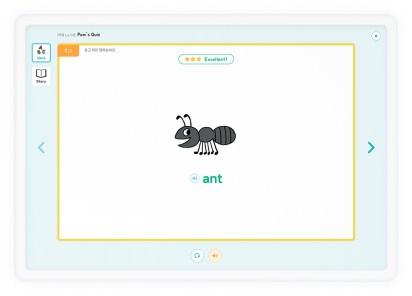
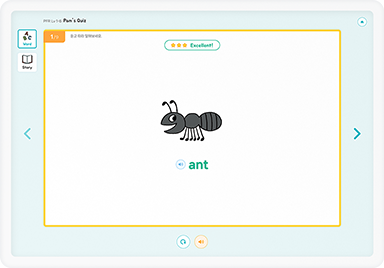
[Update] 프로그램 소개 페이지 미리보기 수정.

diff --git a/src/Screens/IntroductionScreen/IntroductionPreviews/StoryPreview.js b/src/Screens/IntroductionScreen/IntroductionPreviews/StoryPreview.js
@@ -11,7 +11,7 @@ const StoryPreview = () => {
       <img
         src={`/assets/images/story_preview.png`}
         alt={`Story Preview`}
-        className={`drop-shadow-2xl`}
+        className={`drop-shadow-2xl w-[384px]`}
       />
     </div>
   );

diff --git a/src/Screens/MainScreen/NavigationBar/NavigationBarStyles.js b/src/Screens/MainScreen/NavigationBar/NavigationBarStyles.js
@@ -6,7 +6,6 @@ const NavigationBarOuterContainer = styled.div`
     justify-content: center;
   }
   @media (min-width: 1280px) {
-    width: 100vw;
     display: flex;
     flex-direction: row;
     justify-content: center;
